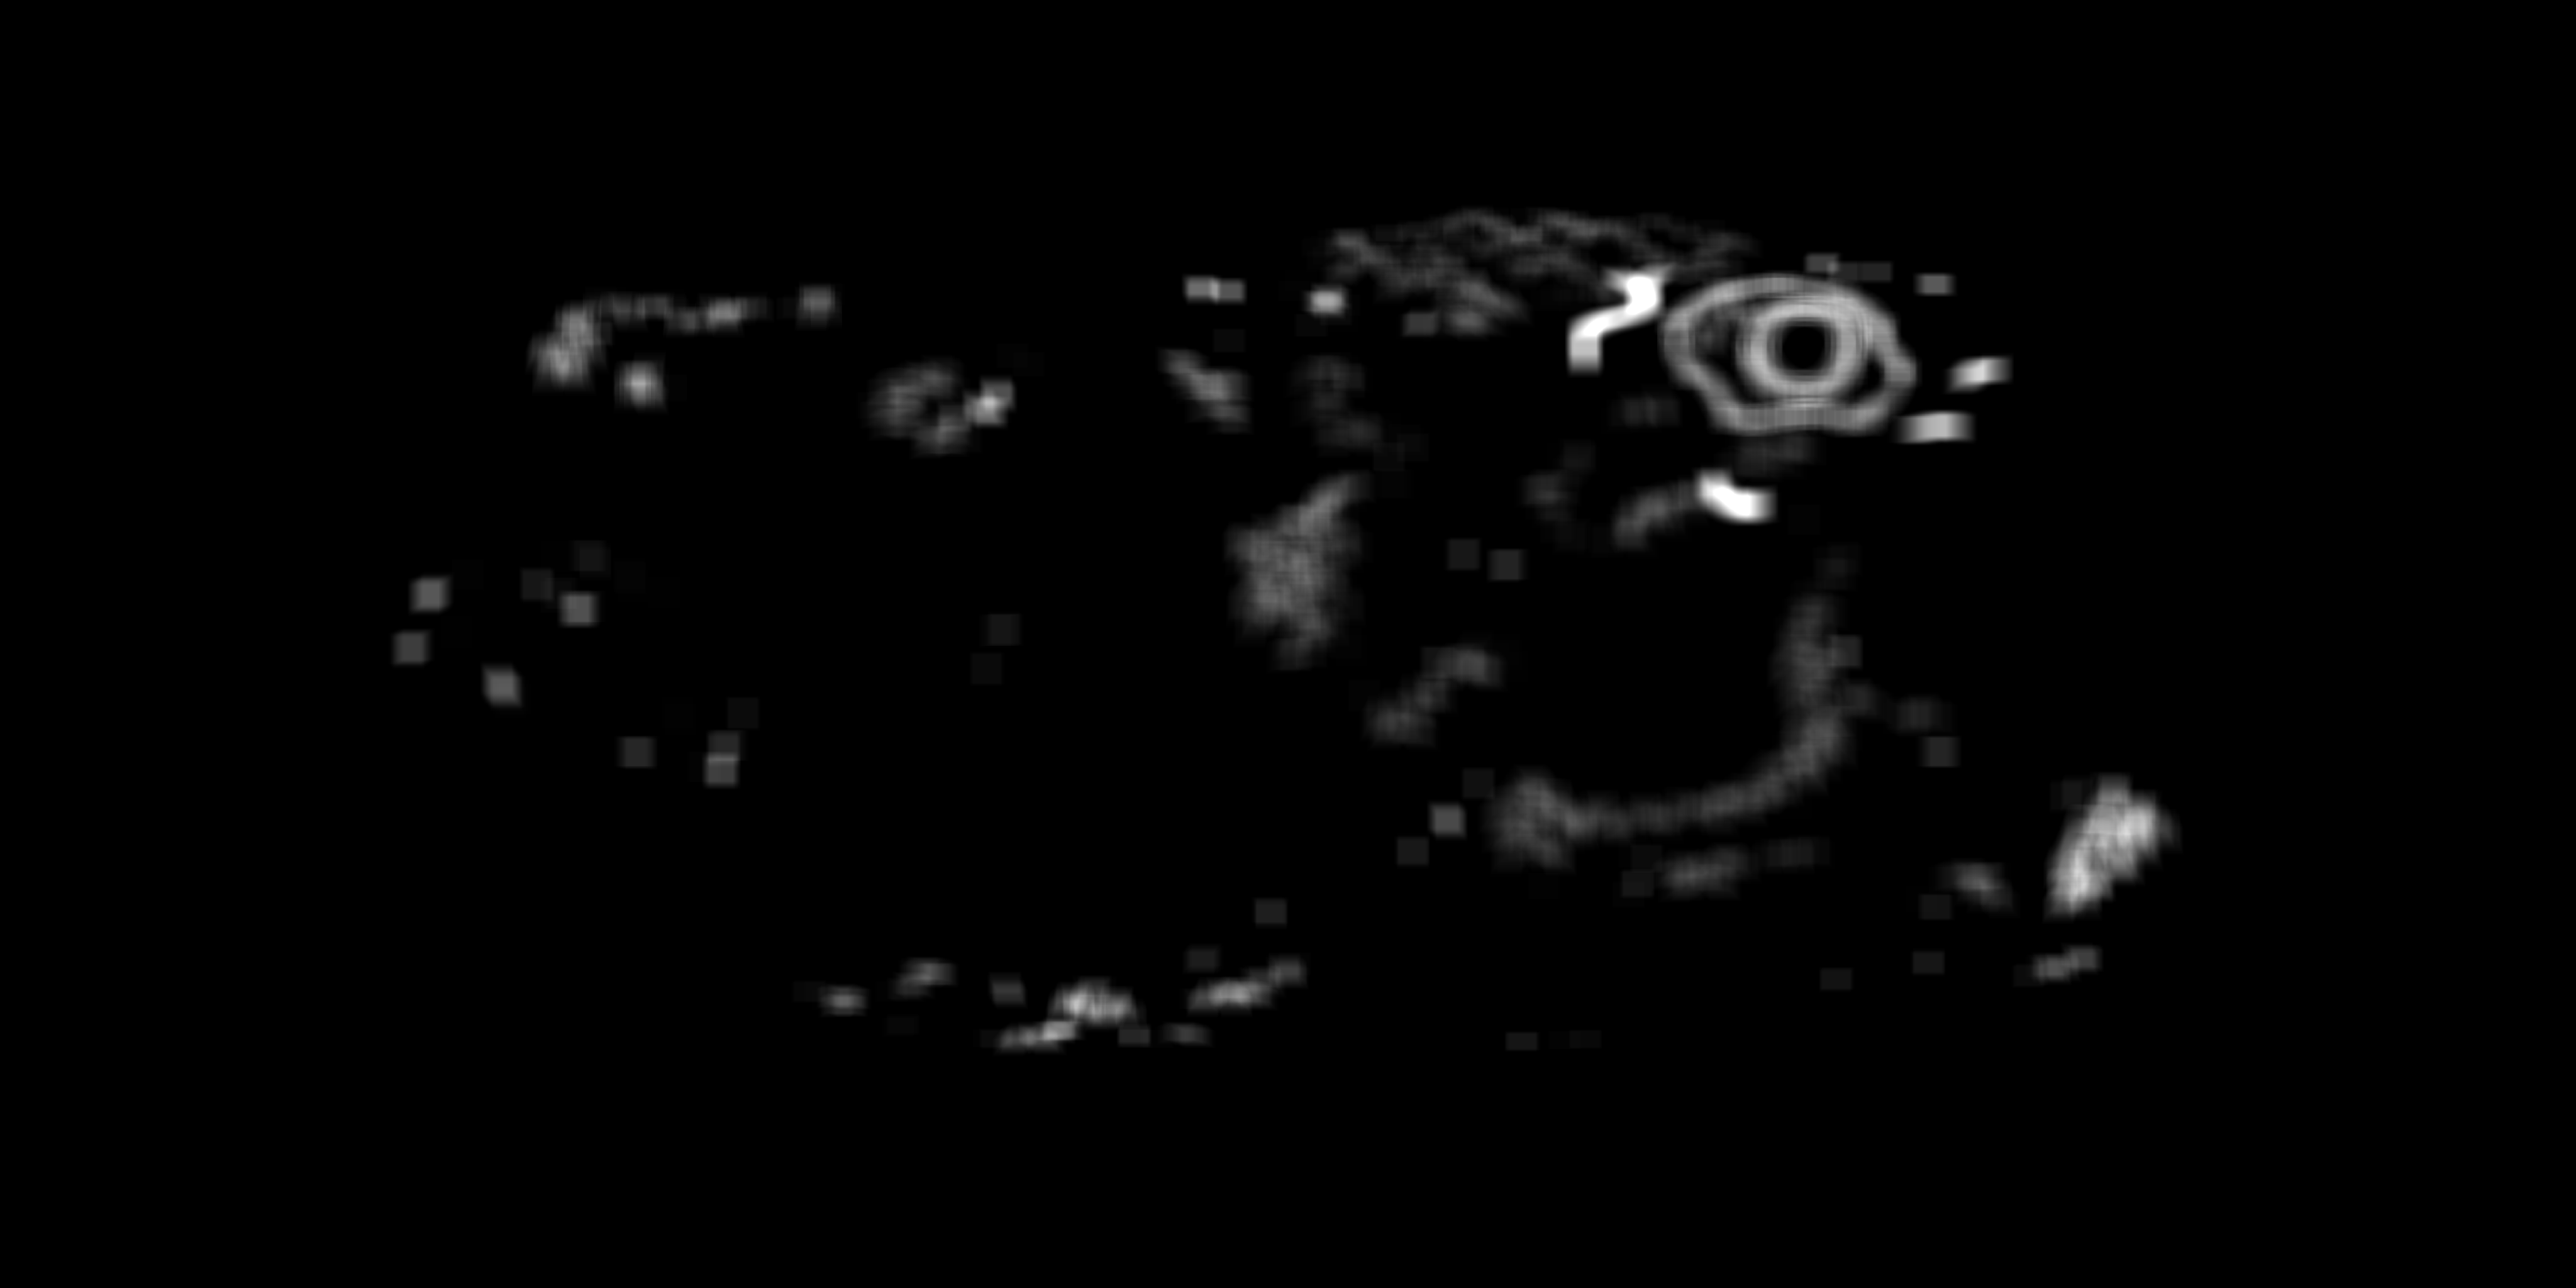
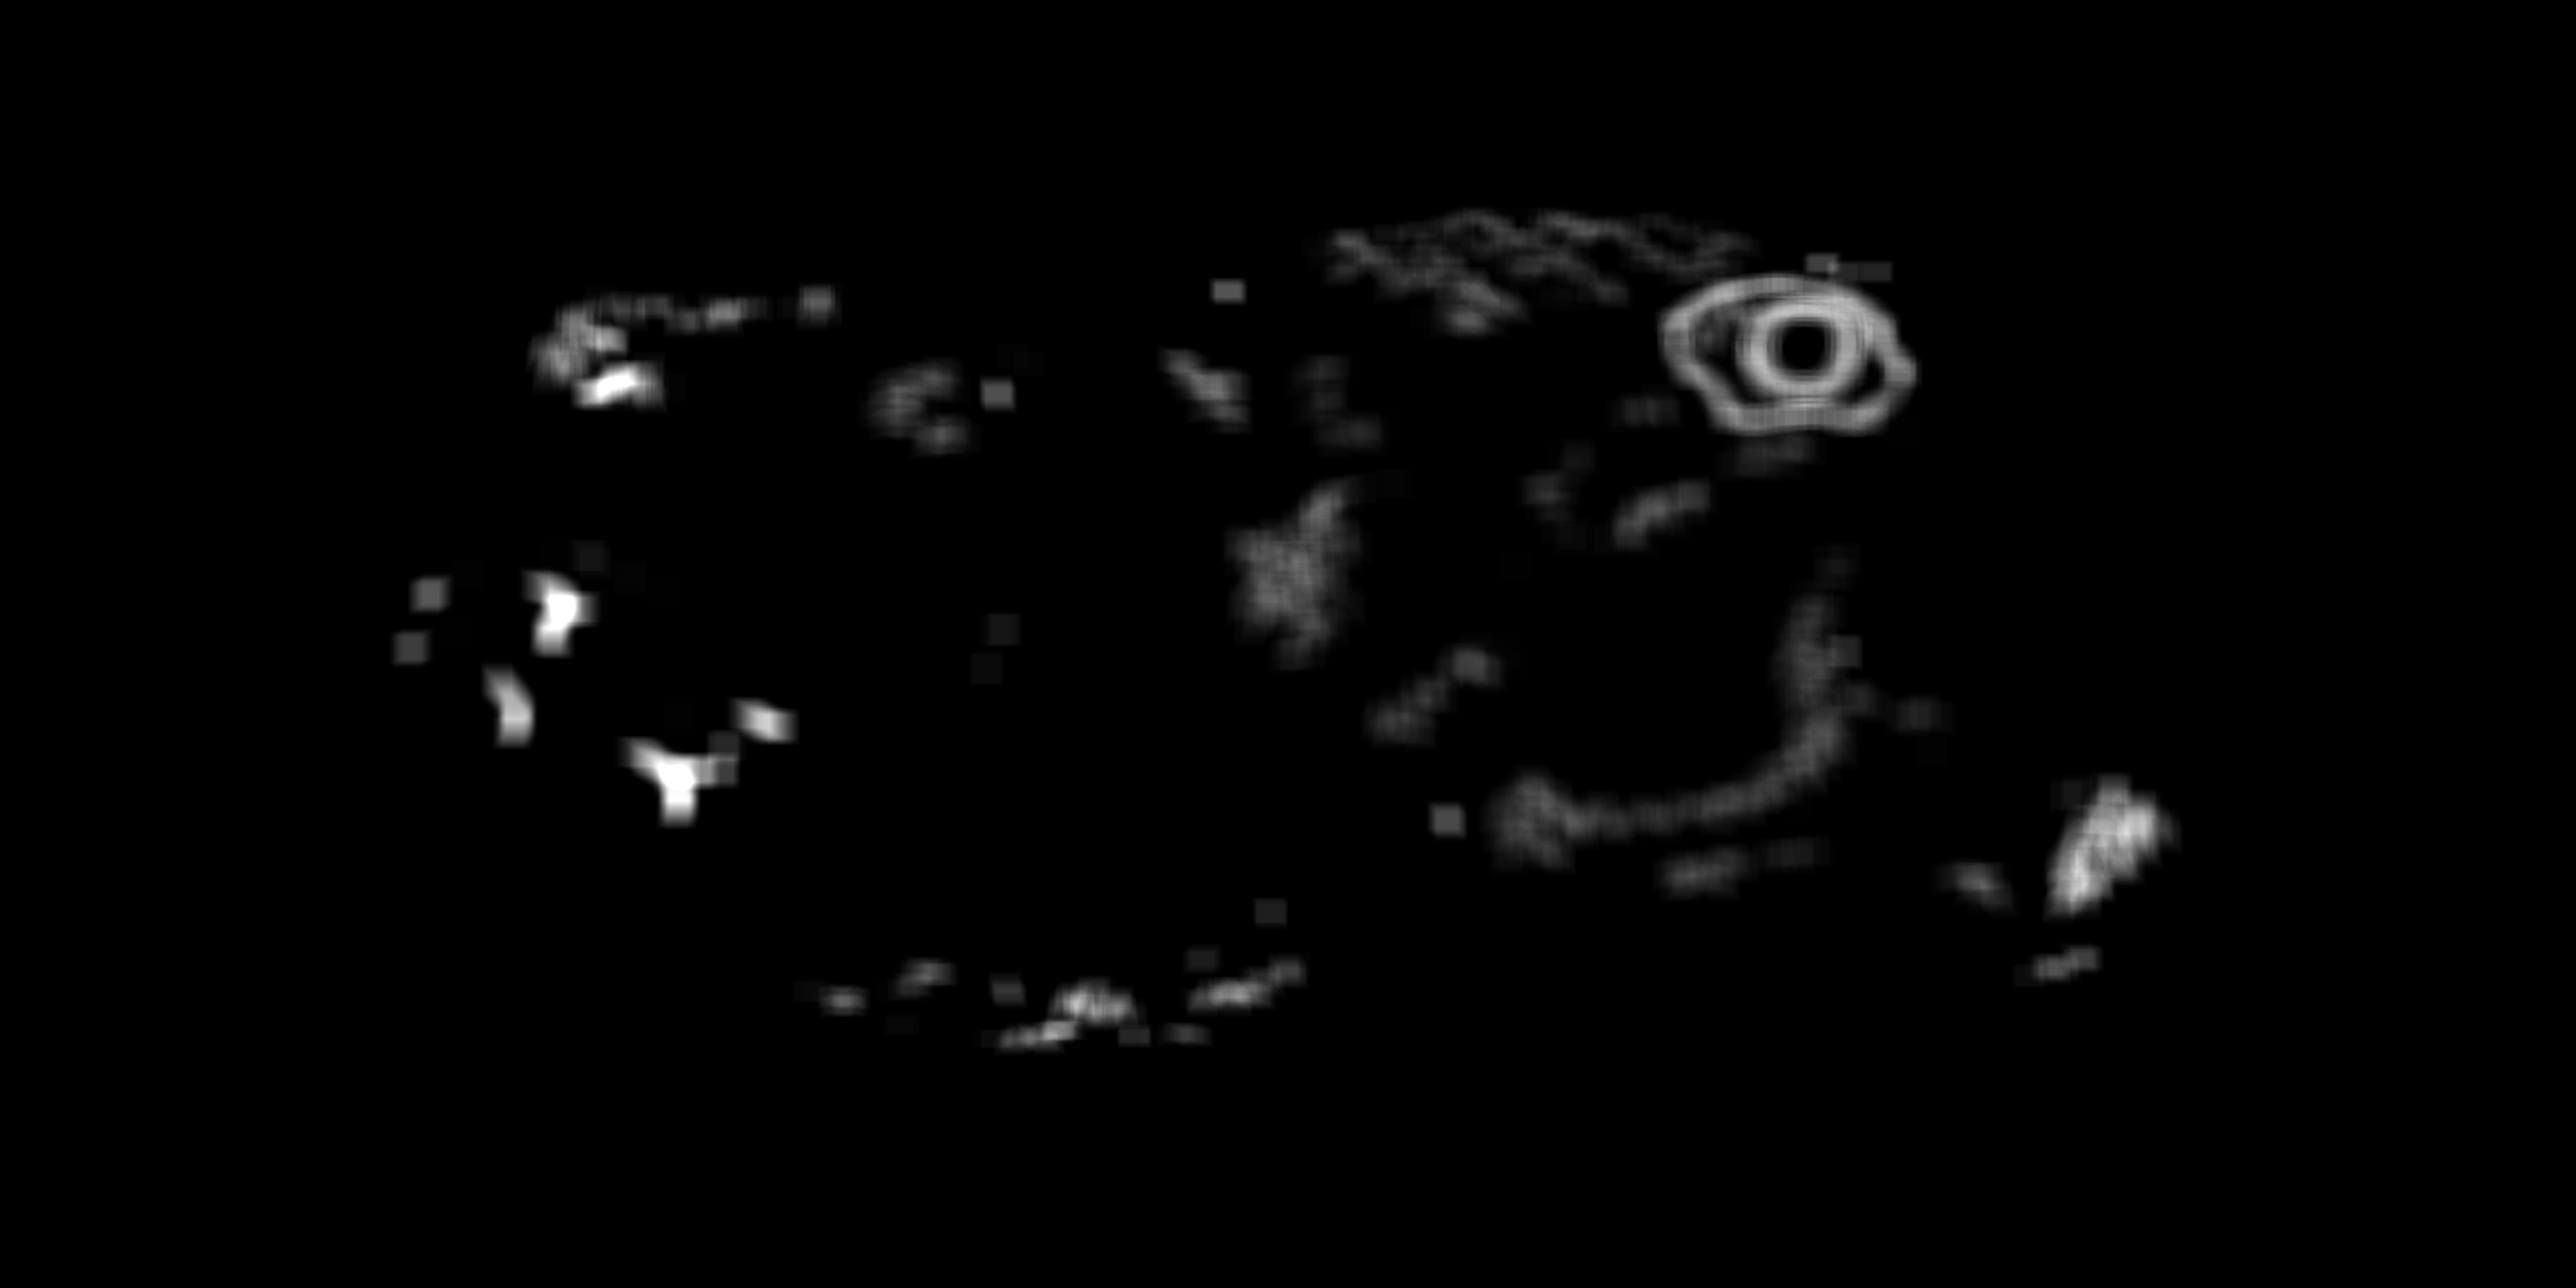
Rios redesenhados pelo miolo cinza do mapa oficial; sem falsos rios no Ar e no Fogo
O traçado antigo pegava sombra de relevo como rio e cortava as fozes. Agora
cada rio é reconhecido pela faixa cinza entre contornos pretos (ou cunha preta
com foz no litoral), inclusive sob o cone do quadro de detalhe, onde também
sumiu um lago falso nas colônias. Prova: node tools/cmp-rios.mjs.

diff --git a/docs/FONTES.md b/docs/FONTES.md
@@ -45,7 +45,7 @@ Não foi encontrado nenhum repositório aberto com o mundo Avatar já georrefere
 
 ## Como as posições foram definidas
 
-1. **Contornos:** extraídos automaticamente, pixel a pixel, do mapa-múndi oficial (*Avatar world map.jpeg*, 3840×2160, Avatar Wiki) por `tools/trace-official.mjs`. O programa separa mar, terra, a cor de cada nação, os rios e os traços de relevo, ignora os elementos decorativos (medalhões, placas, quadro de detalhe, fumaça dos vulcões) e grava só **máscaras** em `world/trace/`. A pintura do site é nova e procedural, feita dentro desses limites; a imagem oficial não vai para o repositório (fica em `arte/`, fora do git).
+1. **Contornos:** extraídos automaticamente, pixel a pixel, do mapa-múndi oficial (*Avatar world map.jpeg*, 3840×2160, Avatar Wiki) por `tools/trace-official.mjs`. O programa separa mar, terra, a cor de cada nação, os rios e os traços de relevo, ignora os elementos decorativos (medalhões, placas, quadro de detalhe, fumaça dos vulcões) e grava só **máscaras** em `world/trace/`. Os rios do original são faixas cinza-escuras com contorno preto (ou, os menores, cunhas pretas sólidas) que saem do litoral; o programa os reconhece por esse miolo cinza, inclusive sob o cone translúcido do quadro de detalhe, e segue as nascentes finas terra adentro. A prova de sobreposição sai com `node tools/cmp-rios.mjs`. A pintura do site é nova e procedural, feita dentro desses limites; a imagem oficial não vai para o repositório (fica em `arte/`, fora do git).
    - **Projeção:** o mapa oficial é tratado como um mapa de **Mercator** (`world/projection.mjs`). No modo plano do site (Web Mercator) a geometria é idêntica à do mapa oficial; no globo, cada ponto vai para a esfera pela inversa exata de Mercator, `φ = 2·atan(eʸ) − π/2`. Escala: 360° de longitude ocupam 62,07% da largura da imagem, com o equador a 49,35% da altura. As terras polares ficam por volta de 65–75° de latitude.
    - A calibração antiga (linear, `latitude = 139,2 − 2,821 × y%`) foi convertida para Mercator mantendo cada lugar no mesmo ponto da imagem oficial; seis lugares que caíam na água por menos de 1° foram levados à terra mais próxima.
 2. **Localização de cada lugar:** campo *location* da página de cada lugar no **Avatar Wiki** (`avatar.fandom.com`, consultado em 14/11/2026). Exemplos:
